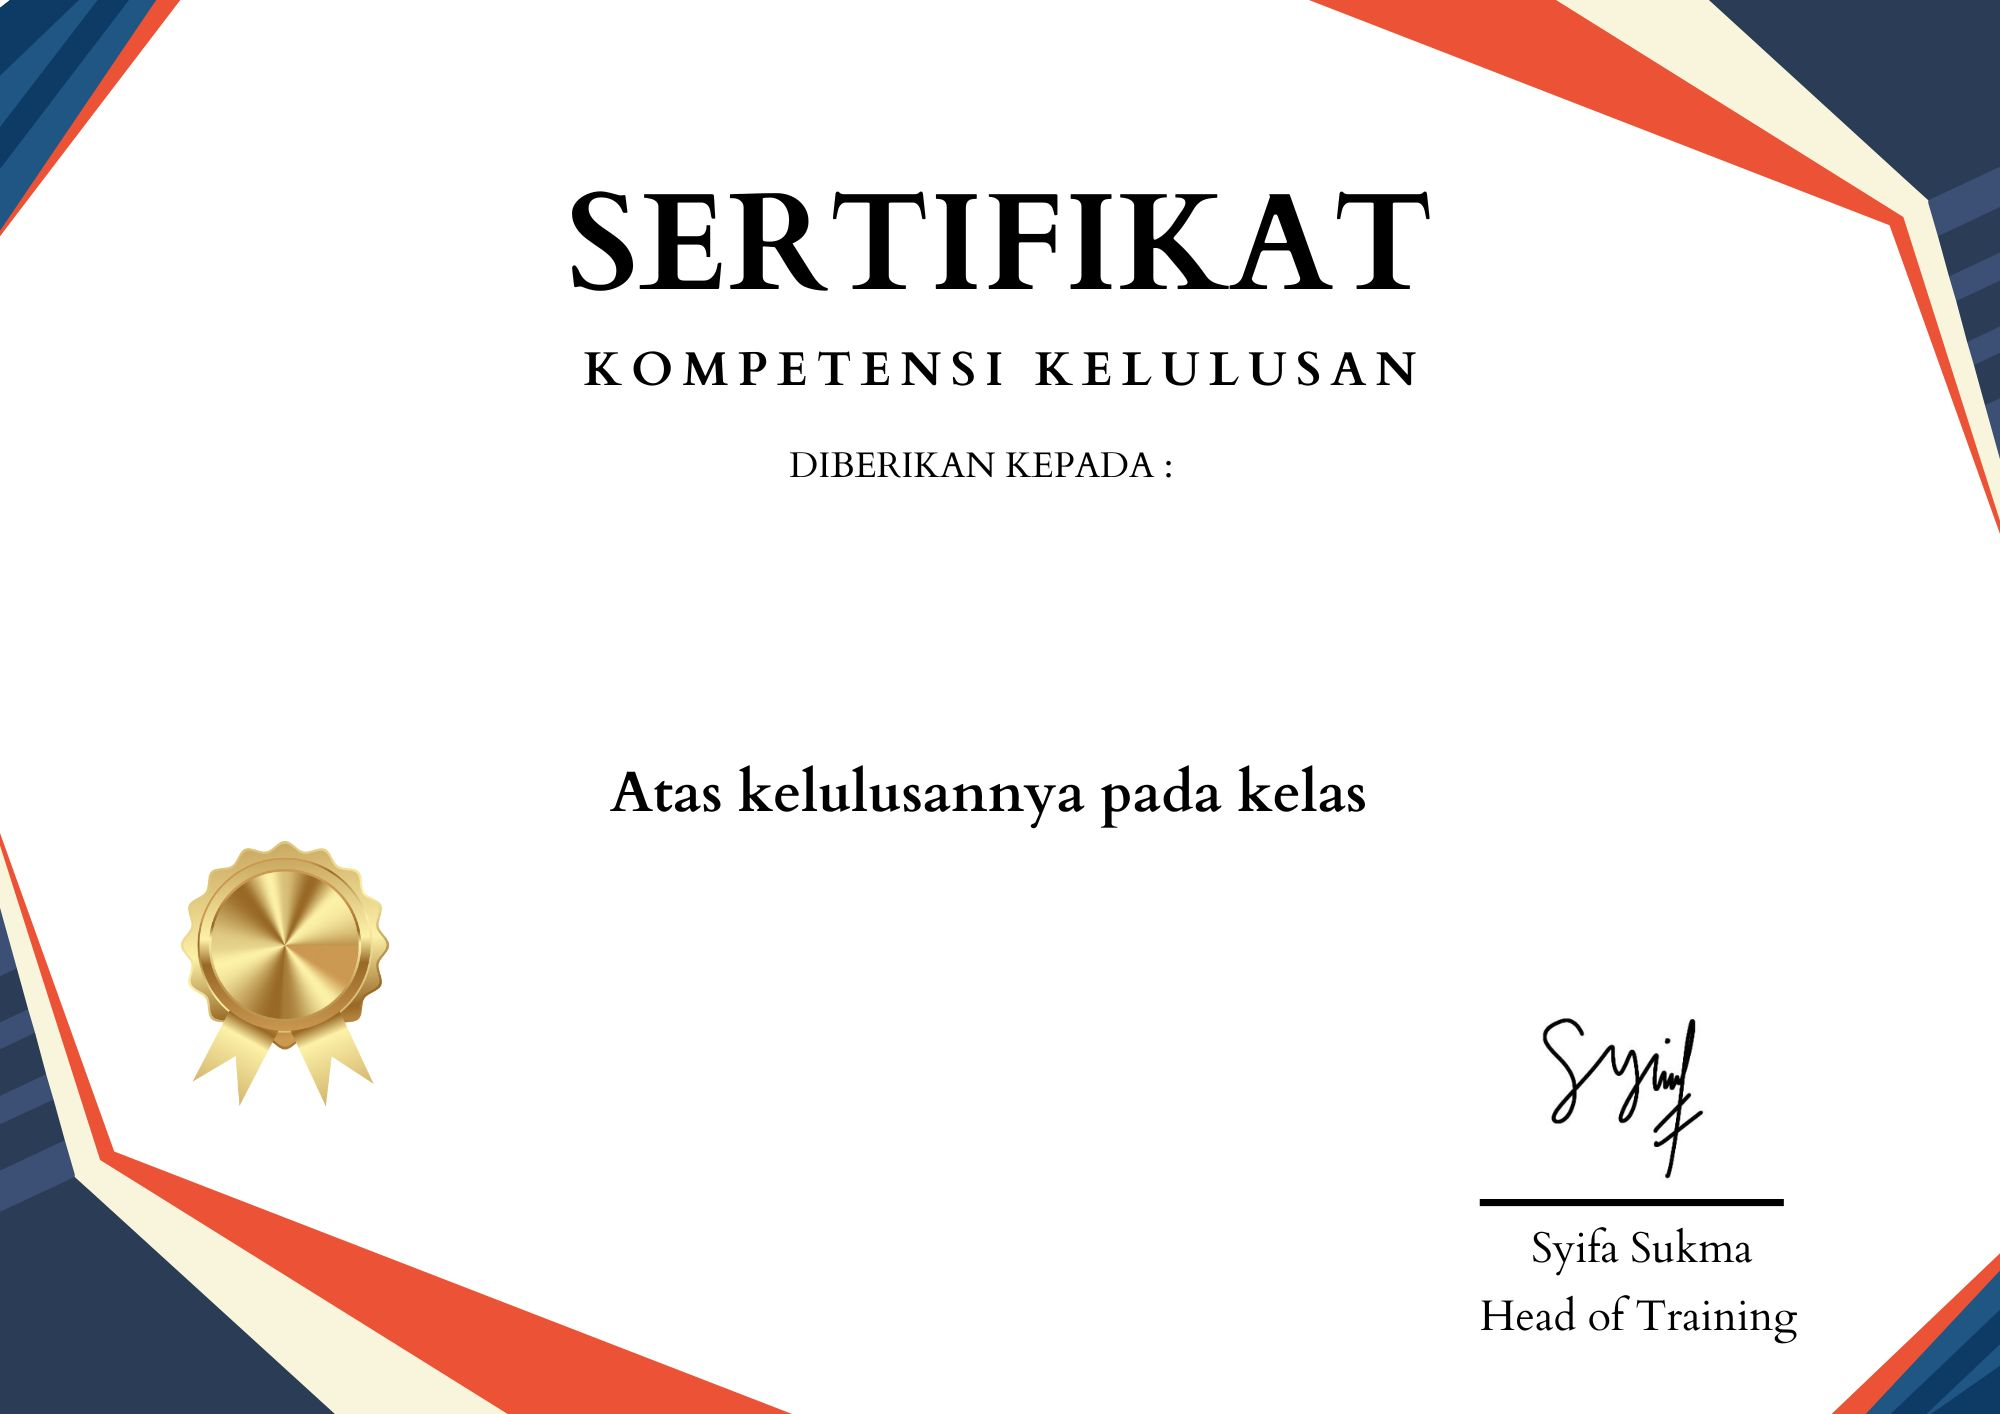
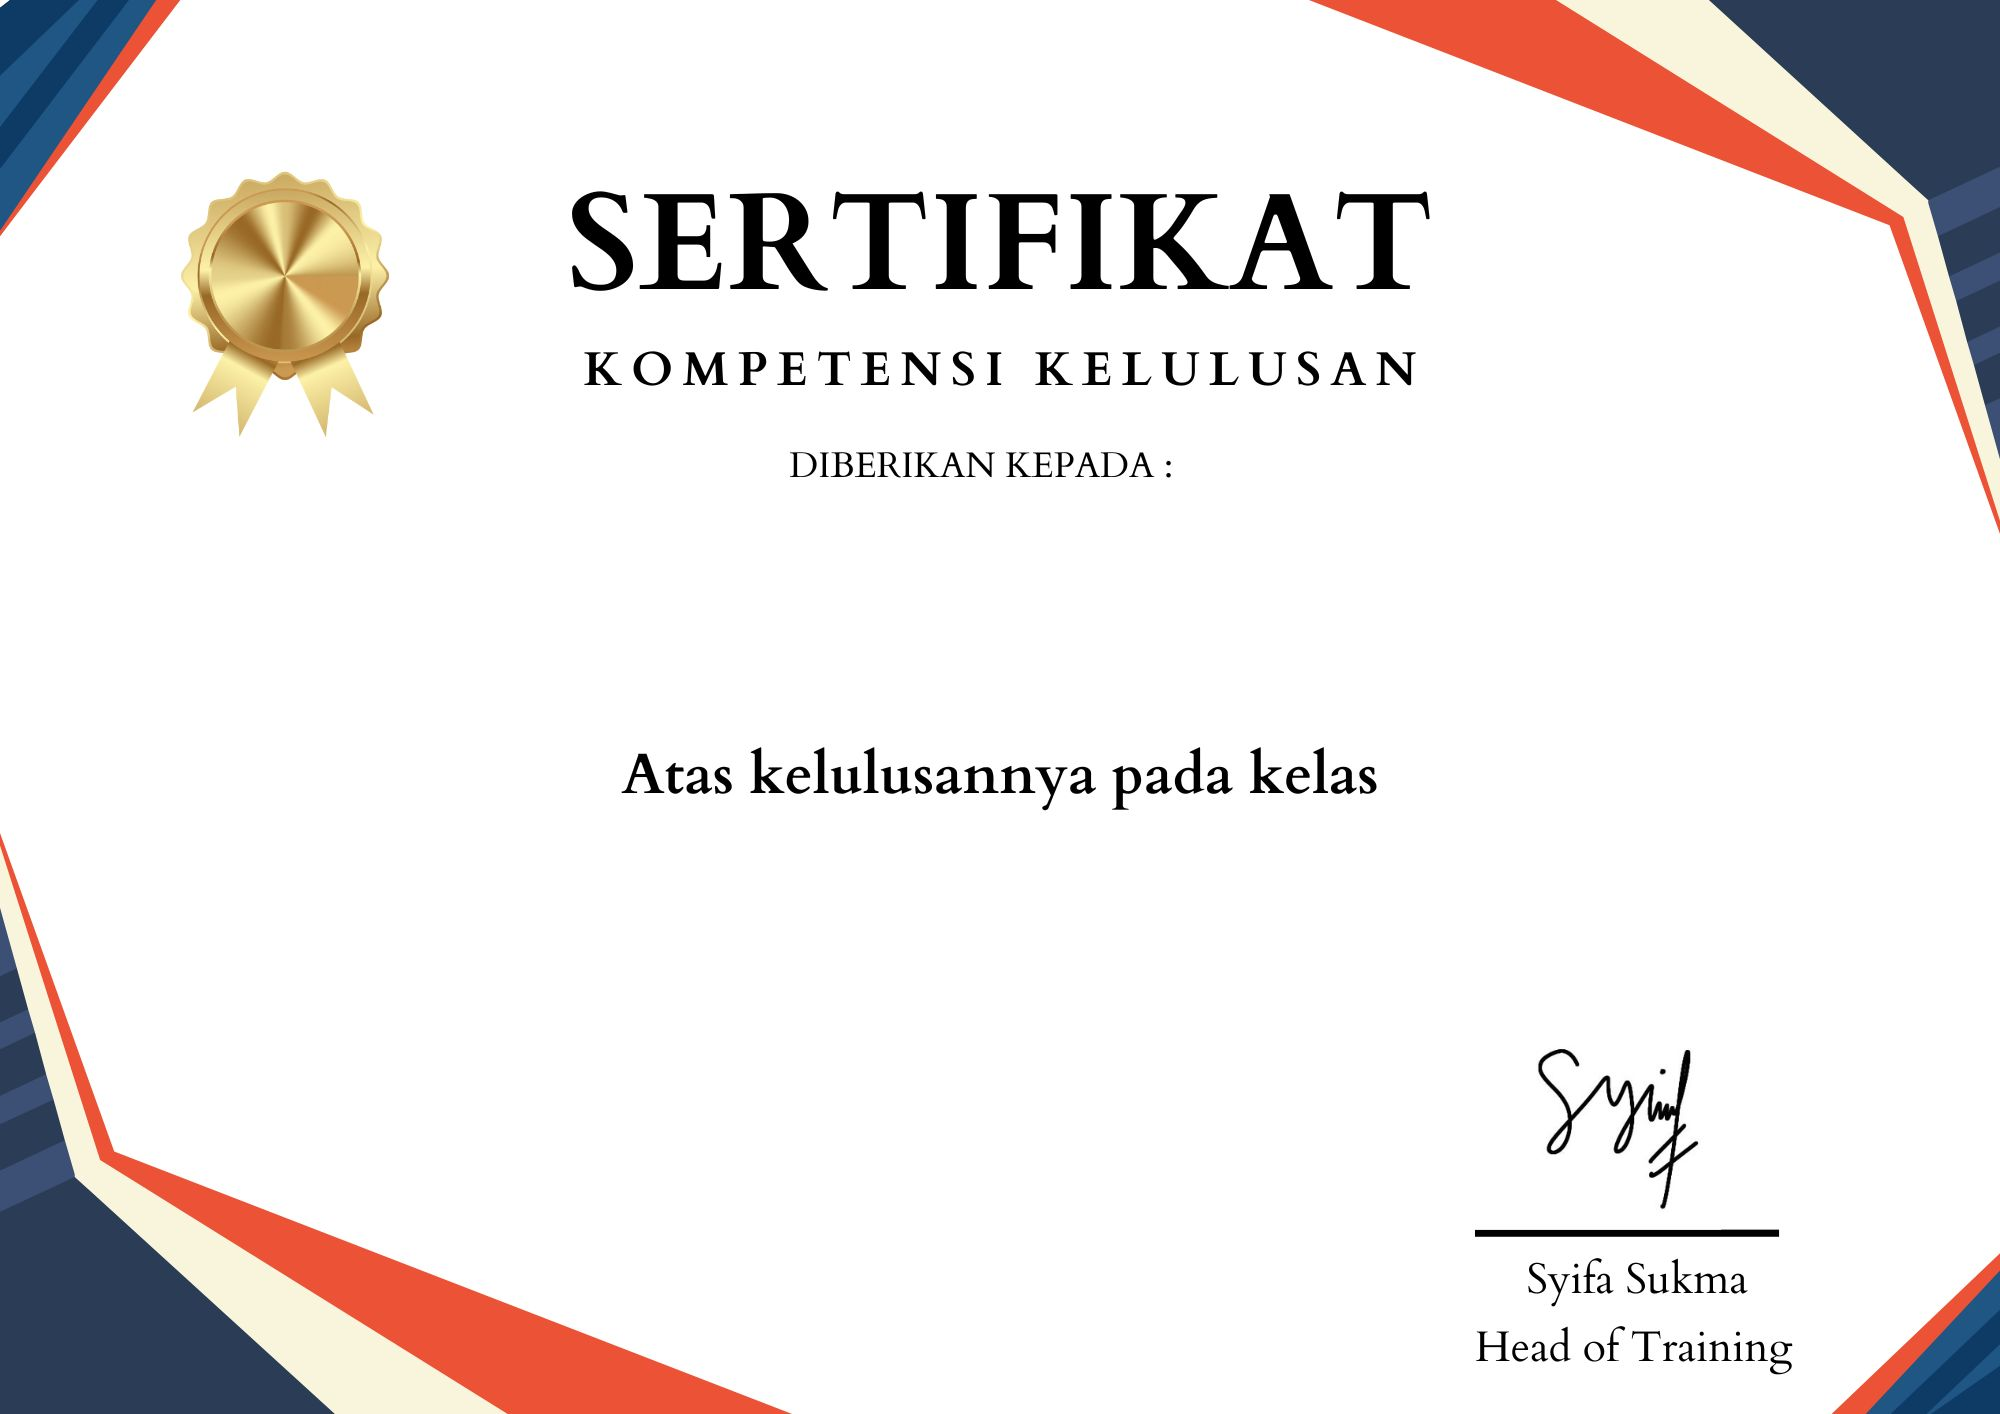
refactor API delete video

diff --git a/app/data/emailMessage.js b/app/data/emailMessage.js
@@ -157,9 +157,71 @@ const successVerifyMessage = () => {
     `;
 };
 
+const htmlCreateCertif = (name, course) => {
+  return `
+    <!DOCTYPE html>
+<html lang="en">
+
+<head>
+  <meta charset="UTF-8">
+  <meta name="viewport" content="width=device-width, initial-scale=1.0">
+  <title>Notifikasi Pengiriman Sertifikat</title>
+  <style>
+    body {
+      font-family: 'Arial', sans-serif;
+      line-height: 1.6;
+      color: #333;
+    }
+
+    .container {
+      max-width: 600px;
+      margin: 0 auto;
+    }
+
+    h1 {
+      color: #4CAF50;
+    }
+
+    p {
+      color: #555;
+    }
+
+    .btn {
+      display: inline-block;
+      padding: 10px 20px;
+      background-color: #4CAF50;
+      color: #fff;
+      text-decoration: none;
+      border-radius: 5px;
+    }
+  </style>
+</head>
+
+<body>
+  <div class="container">
+    <h1>Selamat ${name}! Anda Telah Menyelesaikan Kursus!</h1>
+
+    <p>Kami dengan bangga memberitahu Anda bahwa Anda telah berhasil menyelesaikan kursus ${course} dengan sukses. Kesungguhan dan dedikasi Anda selama kursus sangat dihargai.</p>
+
+    <p>Sertifikat penghargaan Anda telah kami lampirkan pada email ini. Sertifikat ini mencerminkan pencapaian luar biasa Anda dan merupakan bukti resmi dari partisipasi Anda dalam kursus kami.</p>
+
+    <p>Harap diingat untuk menyimpan sertifikat ini dengan aman, karena merupakan bukti yang berharga atas usaha dan kesuksesan Anda dalam mencapai tujuan pembelajaran.</p>
+
+    <p>Terima kasih atas kepercayaan Anda dalam memilih kursus kami. Jika Anda memiliki pertanyaan atau membutuhkan bantuan lebih lanjut, jangan ragu untuk menghubungi tim kami.</p>
+
+    <p>Salam sukses,</p>
+    <p>Preducation</p>
+  </div>
+</body>
+
+</html>
+    `;
+};
+
 module.exports = {
   verifyEmailMessage,
   forgotPasswordMessage,
   resetPasswordMsgSuccess,
   successVerifyMessage,
+  htmlCreateCertif,
 };

diff --git a/app/helpers/createCertif.js b/app/helpers/createCertif.js
@@ -3,6 +3,7 @@ const path = require('path');
 
 const fileName = path.join(__dirname, 'templateCertif.jpg');
 const sendMailer = require('../helpers/nodemailer');
+const {htmlCreateCertif} = require('../data/emailMessage');
 
 // imageCapptions = [
 //   'Irfiyanda',
@@ -24,13 +25,16 @@ const createCertif = (emailAddress, imageCaptions) => {
         const startY = (imageHeight - 320) / 2;
 
         let currentY = startY;
-        imageCaptions.forEach(function(line) {
+        imageCaptions.forEach(function(line, index) {
           const textWidth = Jimp.measureText(font, line);
           const x = (imageWidth - textWidth) / 2;
 
+          if (index == 0) {
+            currentY = 547;
+          } else {
+            currentY = 907;
+          }
           loadedImage.print(font, x, currentY, line);
-
-          currentY += Jimp.measureTextHeight(font, line);
         });
 
         const imageBuffer = await loadedImage.getBufferAsync(Jimp.MIME_JPEG);
@@ -41,7 +45,7 @@ const createCertif = (emailAddress, imageCaptions) => {
           to: emailAddress,
           subject: 'Sertifikat Kelulusan',
           // eslint-disable-next-line max-len
-          text: `Selamat! Anda telah menyelesaikan kursus ${imageCaptions[1]} dan berhak menerima sertifikat kelulusan.`,
+          html: htmlCreateCertif(imageCaptions[0], imageCaptions[1]),
           attachments: [
             {
               filename: `${imageCaptions[0]}-${imageCaptions[1]}.jpg`,

diff --git a/app/controllers/video.js b/app/controllers/video.js
@@ -82,6 +82,8 @@ const deleteVideo = async (req, res, next) => {
       prevChapterDuration += video.duration;
     }
     chapter.totalDuration = prevChapterDuration;
+    chapter.updatedAt = new Date().getTime()+(7 * 60 * 60 * 1000);
+    chapter.updatedBy = req.user._id;
     await chapter.save();
 
     const course = await Course.findOne({chapters: chapter._id})
@@ -89,6 +91,13 @@ const deleteVideo = async (req, res, next) => {
     let coursePrevDuration = 0;
     for (const chapter of course.chapters) {
       coursePrevDuration += chapter.totalDuration;
+    }
+    let updateIndex = 1;
+    for (const chapterCourse of course.chapters) {
+      for (const videoChapter of chapterCourse.videos) {
+        videoChapter.index = updateIndex++;
+      }
+      await chapterCourse.save();
     }
 
     course.totalDuration = coursePrevDuration;
@@ -122,6 +131,8 @@ const updateVideo = async (req, res, next) => {
       prevChapterDuration += video.duration;
     }
     chapter.totalDuration = prevChapterDuration;
+    chapter.updatedAt = new Date().getTime()+(7 * 60 * 60 * 1000);
+    chapter.updatedBy = req.user._id;
     await chapter.save();
 
     const course = await Course.findOne({chapters: chapter._id})

diff --git a/database/seeders/index.js b/database/seeders/index.js
@@ -368,30 +368,35 @@ async function createDatabaseAndCollection() {
         userId: user2._id,
         totalPrice: 100000,
         status: 'Paid',
+        paymentType: 'bank_transfer',
       },
       {
         courseId: course2._id,
         userId: user1._id,
         totalPrice: 75000,
         status: 'Paid',
+        paymentType: 'bank_transfer',
       },
       {
         courseId: course2._id,
         userId: user2._id,
         totalPrice: 75000,
         status: 'On Progress',
+        paymentType: 'bank_transfer',
       },
       {
         courseId: course3._id,
         userId: user1._id,
         totalPrice: 95000,
         status: 'Paid',
+        paymentType: 'bank_transfer',
       },
       {
         courseId: course3._id,
         userId: user2._id,
         totalPrice: 95000,
         status: 'On Progress',
+        paymentType: 'bank_transfer',
       },
     ];
 
